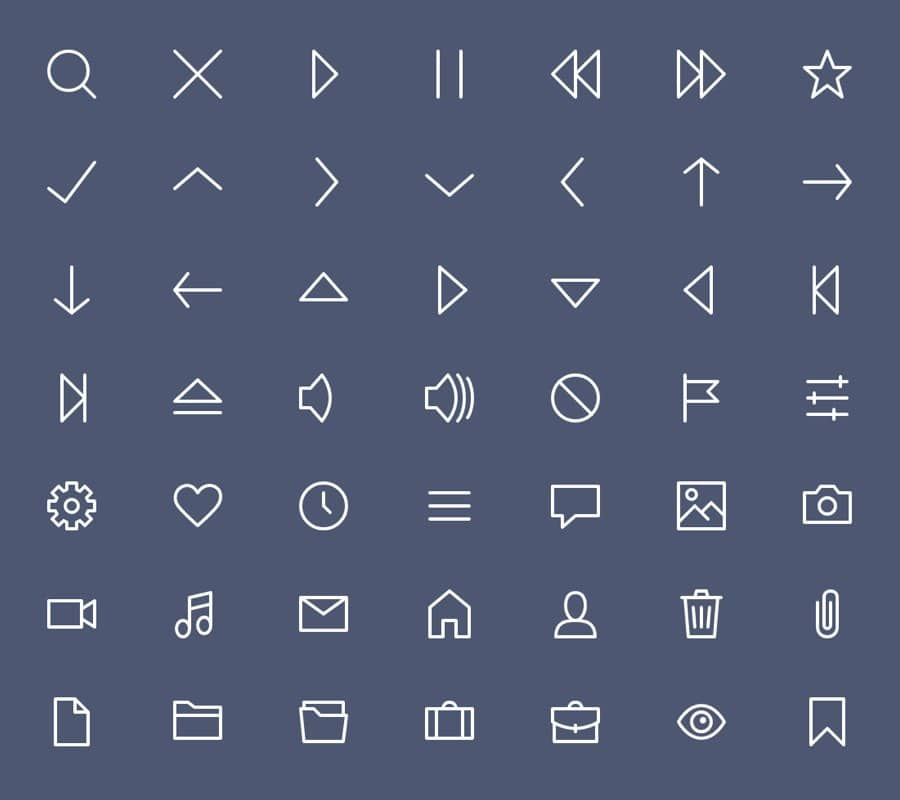
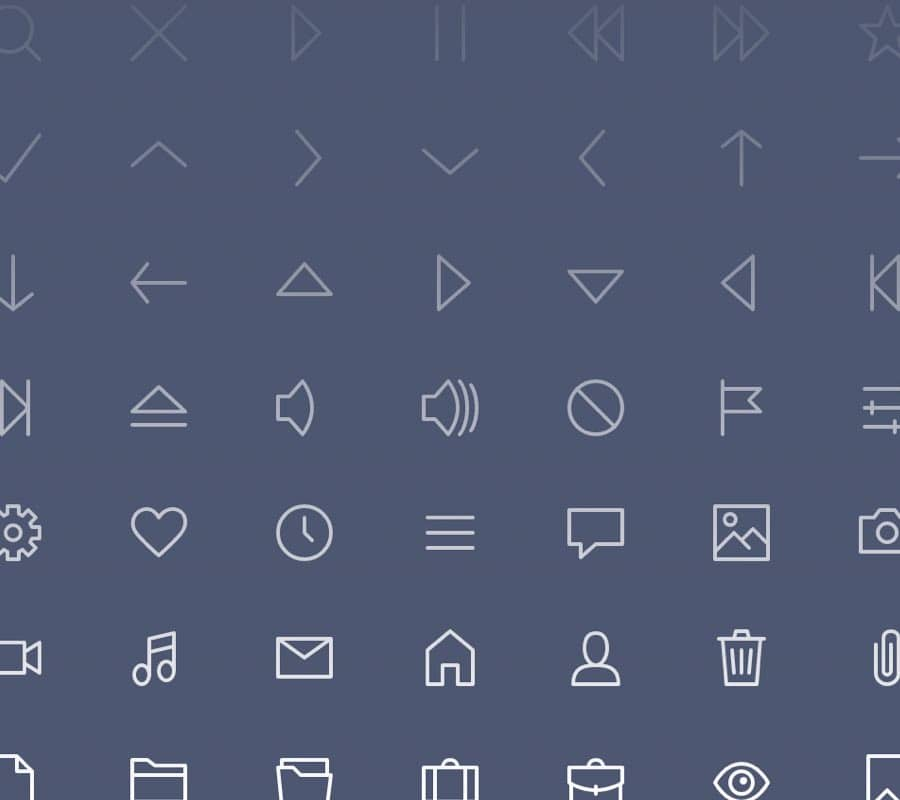
Full bleed imagery for Bytesize

diff --git a/work/_posts/2016-06-01-bytesize.md b/work/_posts/2016-06-01-bytesize.md
@@ -6,6 +6,8 @@ year:           2016
 role:           Creator
 color:          "77, 87, 114"
 cover-image:    /img/work/bytesize/bytesize-cover.jpg
+hero-image:     /img/work/bytesize/bytesize-hero.jpg
+hero-repeat:    repeat-x
 permalink:      /bytesize-icons/
 ---
 
